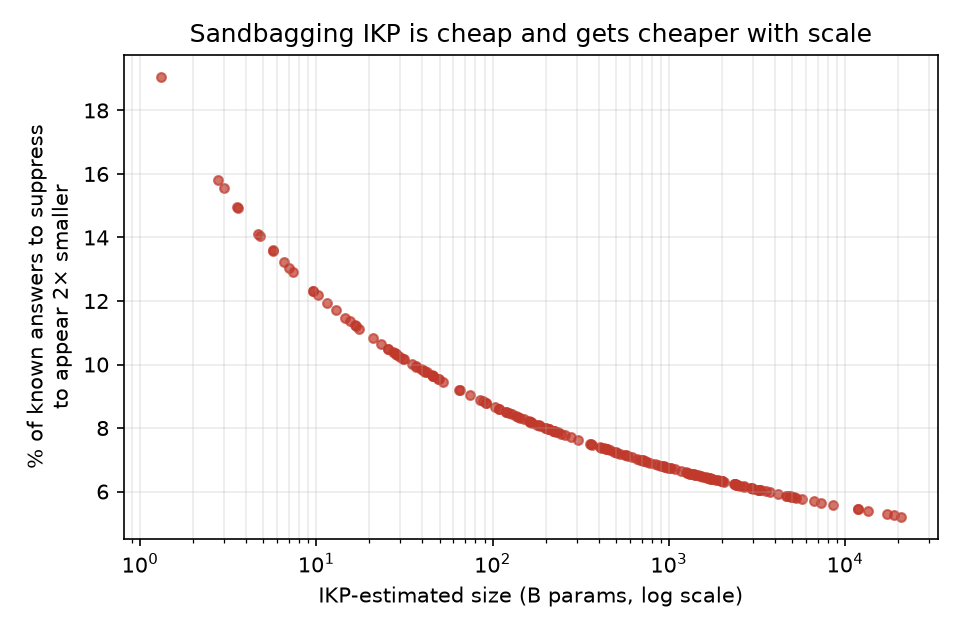
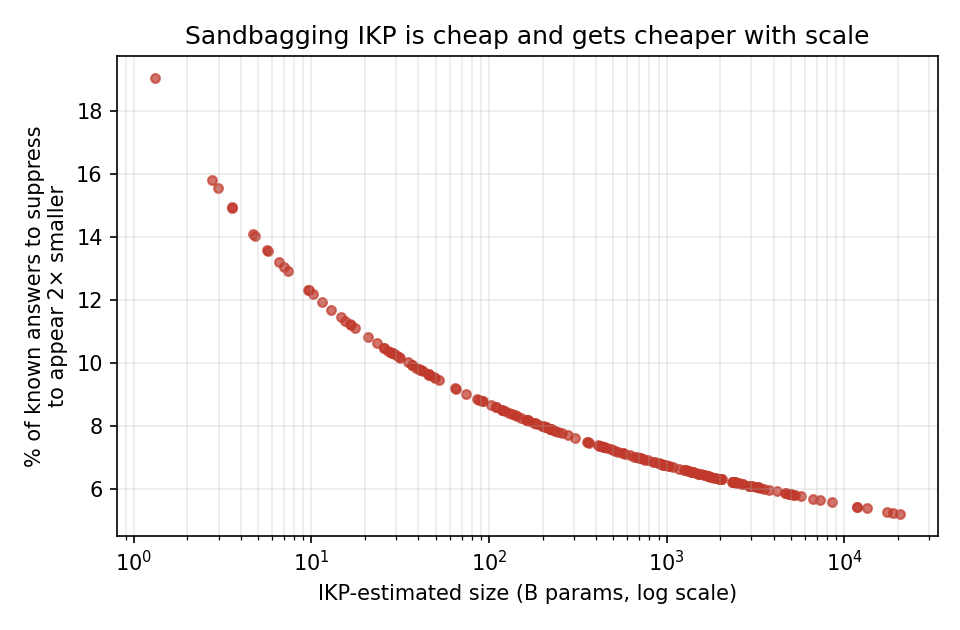
Paper: integrate adversarial-robustness + v2 findings from PR #4
Fold Koutian Wu's contributed analysis (PR #4) into the paper after
validating it reproduces from committed data (18_v2_validation.py: max
accuracy diff 0.0 across 201 models; refit R^2=0.91, 1.47x median fold;
interval width 1.35x->5.64x with refusal).

- New Discussion subsection "Adversarial Robustness: Gaming the Estimator"
  with the sandbagging/contamination threat model and the refusal-robust
  v2 report, framed as lower bounds on attack cost (attacks simulated by
  re-scoring recorded verdicts, not observed).
- Add Figures 11-12 (sandbagging cost vs scale; v2 interval vs refusal).
  Emit PDF alongside PNG from scripts 17/18 to match repo figure convention.
- Credit Koutian Wu in the Acknowledgements.

diff --git a/paper/main.tex b/paper/main.tex
@@ -608,6 +608,33 @@ Multiple model families show newer models knowing \emph{less} than their predece
 
 A common pattern in LLM evaluation is that any benchmark, once influential, eventually saturates: MMLU~\citep{hendrycks2021measuring}, GSM8K~\citep{cobbe2021gsm8k}, SimpleQA~\citep{wei2024simpleqa}, and most recently Humanity's Last Exam~\citep{phan2025hle} are all approaching ceiling on frontier models, in part because the underlying tasks are compressible---once a model has internalized modular arithmetic or the scientific-reasoning template, it solves every instance of that task---and in part because high-profile benchmarks inevitably enter the training pipeline. IKP is structurally resistant to both failure modes. The probes measure stored facts, not procedures, so a model that ``saturates'' a tier has by construction memorized the long-tail facts that tier was sampling---which is precisely the quantity IKP exists to estimate. Direct contamination of the released probe file is a separate concern, but the pipeline (Section~\ref{sec:method}) is itself the benchmark: Wikidata sitelink-stratified sampling, DBLP citation-stratified sampling, and tier calibration against the landmark ladder regenerate a fresh probe set from disjoint entities in a few hours of compute.
 
+\subsection{Adversarial Robustness: Gaming the Estimator}
+\label{sec:adversarial}
+
+An estimator is only trustworthy if the party being measured cannot cheaply move it. We quantify how cheaply IKP can be gamed by re-scoring the recorded per-tier verdicts of all 201 evaluated models under two attacker policies (no new API calls; fully reproducible at $\lambda=0$). Because these attacks are \emph{simulated}, by selectively re-scoring answers each model already produced and assuming an operator with perfect control over which answers to withhold or inject, the resulting costs are \emph{lower bounds on attack cost}: real gaming is at least this cheap. No gaming was detected in any real evaluation; this is a threat-model analysis over existing data.
+
+\textbf{Sandbagging (appearing smaller) is cheap, and cheaper with scale.} An operator that returns ``I don't know'' on a fraction $p$ of questions the model actually knows scales its accuracy by $(1-p)$, shifting the size estimate by $\Delta \log_{10}(N) = -\,\mathrm{acc}\cdot p / \mathrm{slope}$ (slope ${\approx}0.149$ at $\lambda=0$). At the median, suppressing only ${\sim}7.4\%$ of known answers makes a model look $2\times$ smaller, and ${\sim}17\%$ makes it look $5\times$ smaller. The cost \emph{falls} with true scale, because larger models have higher accuracy and each withheld answer moves the estimate further: the suppression needed to halve the estimate drops from ${\sim}19\%$ for the smallest models to ${\sim}5$--$6\%$ at the frontier (Figure~\ref{fig:adversarial}). This is an uncomfortable asymmetry---\emph{the models with the most to hide are the easiest to hide}---and it is invisible to a pure black-box auditor, since a high refusal rate is indistinguishable from genuine ignorance or safety tuning (Section~\ref{sec:silent-tax}).
+
+\textbf{Inflation (appearing larger) is possible but leaves a signature.} Converting wrong answers to correct ones by memorizing a leaked probe set can inflate the estimate---at the median, converting ${\sim}12\%$ of wrong answers makes a model look $2\times$ larger---but only with prior access to the probe answers, and the gain is bounded by the accuracy ceiling, so already-strong models can barely inflate. Unlike sandbagging, contamination has a clean defense: a held-out or rotating probe pool renders a memorized public set worthless.
+
+\begin{figure}[ht]
+    \centering
+    \includegraphics[width=\columnwidth]{figures/adversarial_ikp.pdf}
+    \caption{Sandbagging IKP is cheap and gets \emph{cheaper} with scale. Each point is one of the 201 evaluated models; the $y$-axis is the fraction of known answers it would have to suppress to halve its IKP size estimate, computed from its recorded per-tier verdicts at $\lambda=0$. The cost falls from ${\sim}19\%$ for the smallest models to ${\sim}5$--$6\%$ at the frontier, because higher-accuracy models move the estimate further per withheld answer. These are lower bounds on attack cost (Section~\ref{sec:adversarial}).}
+    \label{fig:adversarial}
+\end{figure}
+
+\textbf{A refusal-robust report (v2).} These findings motivate a hardened estimator that surfaces the ``refused-but-known'' ambiguity (Section~\ref{sec:silent-tax}) as an interval rather than collapsing it to one number. Instead of a single parameter count it reports (i)~a \emph{point/floor} from the answers the model actually got right, with refusals scored $0$---sandbagging can only push this down, so it is an honest lower bound; (ii)~a \emph{refusal-adjusted} soft reference that imputes refused probes at the model's observed accuracy on attempted questions; and (iii)~a \emph{confidence tier} from the refusal rate (Reliable $<10\%$, Caution $10$--$30\%$, Low confidence $>30\%$). Wrong answers are never credited: a confident wrong answer is a demonstrated failure, not plausible sandbagging. Across the roster the interval width rises from a median $1.35\times$ for low-refusal models to $5.64\times$ for heavy refusers (Figure~\ref{fig:v2intervals}), so a safety-tuned model that refuses much of what it knows is flagged as \emph{ambiguous} rather than silently under-estimated. Contamination is closed off separately by a deterministic public/private probe split ($700/700$, balanced within every tier), scored only on the private half.
+
+\begin{figure}[ht]
+    \centering
+    \includegraphics[width=\columnwidth]{figures/ikp_v2_intervals.pdf}
+    \caption{The refusal-robust (v2) interval widens with refusal rate. Width is the refusal-adjusted reference divided by the point/floor estimate; each point is one roster model. Low-refusal models get a tight interval (median $1.35\times$); heavy refusers get a wide one (median $5.64\times$ for the high-refusal half), encoding honest uncertainty instead of a confidently wrong point estimate.}
+    \label{fig:v2intervals}
+\end{figure}
+
+This analysis reproduces the paper's own numbers under a deterministic validation harness over the committed evaluation data: recomputing each model's $\lambda=0$ accuracy from raw per-tier verdict counts matches the recorded values exactly (max difference $0.0$ across all 201 models), and an independent refit of the calibration cohort recovers the paper's calibration quality ($R^2 = 0.91$, median in-sample fold $1.47\times$, $74\%$ within $2\times$, $88\%$ within $3\times$). The adversary model is an assumption rather than an observation, and absolute attack sizes inherit IKP's own ${\sim}1.5\times$ median calibration fold.
+
 \subsection{Limitations}
 \label{sec:limitations}
 
@@ -687,6 +714,8 @@ We release the IKP evaluation toolkit, probe set, raw per-model responses, finge
 The author thanks Jiyan He and Zihan Zheng for early discussions and observations that seeded this work, including the inspiration drawn from three years of factual probes against newly released models---most notably the USTC Hackergame stress test that opens this paper, where the same prompt asked at each new release traced a single fact arriving in parameters over time. The framing of factual capacity as the incompressible component of model knowledge owes much to those conversations. 
 
 We thank Sturb and LawrenceC, whose independent sanity-check of an earlier version of this work~\citep{sturb2026sanity} identified a discrepancy between the described and implemented per-tier scoring and the sensitivity of frontier estimates to the hallucination penalty. This revision responds directly to those points: it adopts no-penalty scoring ($\lambda = 0$), which removes both the penalty and the flooring degree of freedom, reports the full $\lambda \times$ flooring ablation and prediction bands, and cleans the probe set of name-collision and label-ambiguity defects (Appendix~\ref{app:lambda}).
+
+We thank Koutian Wu for the adversarial-robustness analysis and the refusal-robust (v2) estimator contributed in Section~\ref{sec:adversarial}, including the sandbagging/contamination threat model, the held-out probe split, and the deterministic validation harness that reproduces the paper's numbers from the committed evaluation data.
 
 This paper was produced using Pine Copilot's voice-directed \emph{whisper coding} workflow~\citep{pineai2026whispercoding}, in which the author specifies, discusses, and reviews the work by voice while a coding agent---Claude Code with Claude Opus 4.8---carries out the planning, coding, experiments, and paper writing.
 

diff --git a/scripts/17_adversarial_robustness.py b/scripts/17_adversarial_robustness.py
@@ -258,6 +258,7 @@ def make_figure(rows):
     fig.tight_layout()
     OUT_FIG.parent.mkdir(parents=True, exist_ok=True)
     fig.savefig(OUT_FIG, dpi=150)
+    fig.savefig(OUT_FIG.with_suffix(".pdf"))
     print(f"  Figure → {OUT_FIG.relative_to(PROJECT_ROOT)}")
 
 

diff --git a/scripts/18_v2_validation.py b/scripts/18_v2_validation.py
@@ -237,6 +237,7 @@ def make_figure(models, slope, intercept):
     fig.tight_layout()
     OUT_FIG.parent.mkdir(parents=True, exist_ok=True)
     fig.savefig(OUT_FIG, dpi=150)
+    fig.savefig(OUT_FIG.with_suffix(".pdf"))
     print(f"  Figure → {OUT_FIG.relative_to(PROJECT_ROOT)}")
 
 